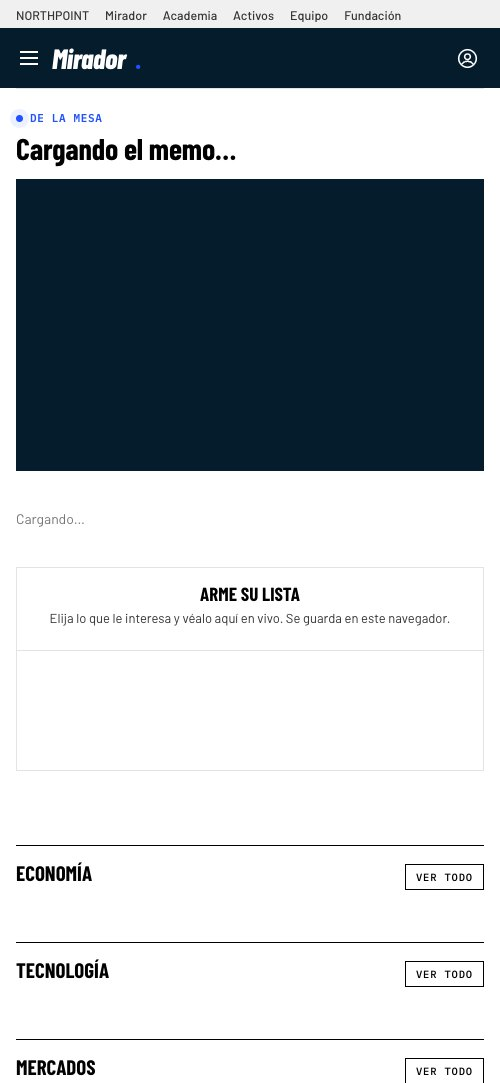
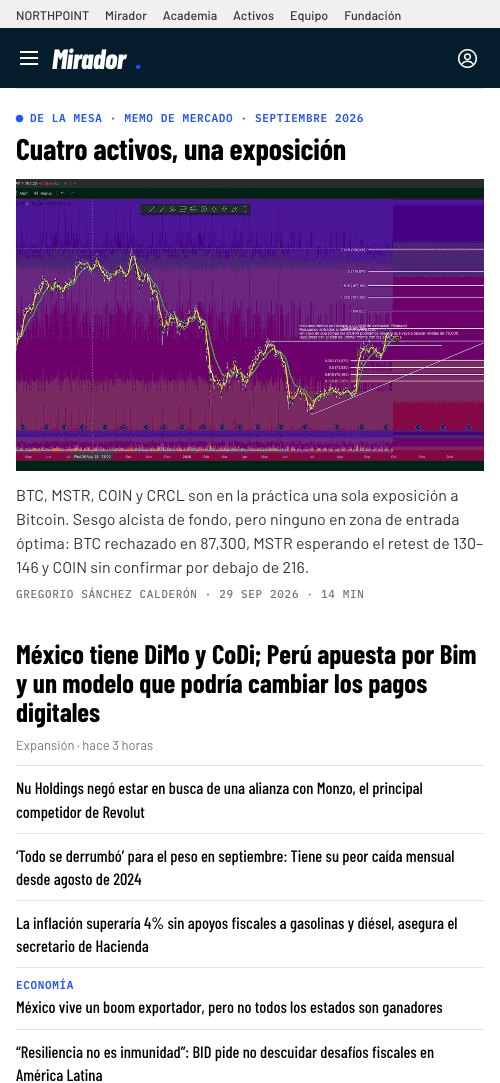
Hero: diapositiva de Mirador antes de la Fundación, con capturas reales en Mac e iPhone

diff --git a/index.html b/index.html
@@ -290,7 +290,7 @@ footer .mark{color:#fff;display:block;margin-bottom:24px}
 footer p{max-width:900px;margin-bottom:12px}
 footer b{color:#fff;font-weight:500}
 </style>
-<link rel="stylesheet" href="anim.css?v=1790812126">
+<link rel="stylesheet" href="anim.css?v=1790817285">
 <script>document.documentElement.classList.add("js-anim");setTimeout(function(){document.documentElement.classList.add("anim-ready")},3500)</script>
 </head>
 <body>
@@ -327,7 +327,17 @@ footer b{color:#fff;font-weight:500}
       <p class="lead">Para grandes capitales y empresas, un trato directo con la dirección de la mesa: estrategia a la medida de su objetivo, reportes personales y reuniones en nuestra oficina. Su dinero, siempre a su nombre.</p>
       <a class="btn" id="privBtn" href="#contacto">Agendar una conversación</a>
     </div></div></div>
-    <div class="hs hs-fund" data-i="3" data-href="fundacion.html"><div class="hs-bg" style="background-image:url(img/fundacion-abierta.jpg);background-position:right 85%;inset:-1.5%"></div><div class="wrap"><div class="box">
+    <div class="hs hs-cien hs-mir" data-i="3" data-href="overview.html"><div class="hs-bg mir-bg"></div>
+      <div class="devs" aria-hidden="true">
+        <div class="mac"><div class="mac-scr"><img src="img/mirador-desk.jpg" alt=""></div><div class="mac-base"></div></div>
+        <div class="iph"><i class="ib ib1"></i><i class="ib ib2"></i><i class="ib ib3"></i><i class="ib ib4"></i><div class="iph-bz"><div class="iph-in"><img src="img/mirador-cel.jpg" alt=""><span class="iph-isl"></span></div></div></div>
+      </div><div class="wrap"><div class="box">
+      <div class="hs-k"><span>Mirador NORTHPOINT</span><span class="hs-pill">Gratis</span></div>
+      <h2 class="serif">Todo el mercado, en un solo lugar.</h2>
+      <p class="lead">Mercados en vivo, las noticias que importan, la agenda económica de la semana y los memos de nuestra mesa. Arme su lista con lo que le interesa y véala moverse en tiempo real.</p>
+      <div style="display:flex;gap:12px;flex-wrap:wrap"><a class="btn" href="overview.html">Abrir el Mirador</a><a class="btn line inv" href="overview.html#memos">Leer los memos</a></div>
+    </div></div></div>
+    <div class="hs hs-fund" data-i="4" data-href="fundacion.html"><div class="hs-bg" style="background-image:url(img/fundacion-abierta.jpg);background-position:right 85%;inset:-1.5%"></div><div class="wrap"><div class="box">
       <div class="hs-k"><span>Fundación NORTHPOINT</span><span class="hs-pill">En formación</span></div>
       <h2 class="serif">Ningún niño debería enfrentar la leucemia sin su familia al lado.</h2>
       <p class="lead">Una parte de cada resultado de la mesa acompaña a familias de niños con leucemia durante su tratamiento.</p>
@@ -338,7 +348,8 @@ footer b{color:#fff;font-weight:500}
     <button data-i="0" class="on"><span>Ahorro</span><i><em></em></i></button>
     <button data-i="1"><span>Desde $100</span><i><em></em></i></button>
     <button data-i="2"><span>Privado</span><i><em></em></i></button>
-    <button data-i="3"><span>Fundación</span><i><em></em></i></button>
+    <button data-i="3"><span>Mirador</span><i><em></em></i></button>
+    <button data-i="4"><span>Fundación</span><i><em></em></i></button>
   </div>
   <div class="hs-arrows"><button type="button" data-d="-1" aria-label="Anterior">←</button><button type="button" data-d="1" aria-label="Siguiente">→</button></div>
   <div class="hs-cue">Siga bajando<i></i></div>
@@ -383,7 +394,7 @@ footer b{color:#fff;font-weight:500}
     </ul>
   </div>
   <div>
-    <div class="iphone"><div class="iph-screen"><iframe src="app.html?muestra=1&v=1790812126" title="Demo de la app NORTHPOINT" loading="lazy"></iframe><div class="iph-island"></div></div></div>
+    <div class="iphone"><div class="iph-screen"><iframe src="app.html?muestra=1&v=1790817285" title="Demo de la app NORTHPOINT" loading="lazy"></iframe><div class="iph-island"></div></div></div>
     <span class="demo">Pruébela aquí: es la app real en modo demostración, sin dinero real. <a class="link" href="app.html" style="font-size:13px">Abrir en pantalla completa</a></span>
   </div>
 </div></section>
@@ -742,7 +753,7 @@ $("#form").addEventListener("submit", e => {
 <script src="https://cdnjs.cloudflare.com/ajax/libs/gsap/3.12.5/gsap.min.js"></script>
 <script src="https://cdnjs.cloudflare.com/ajax/libs/gsap/3.12.5/ScrollTrigger.min.js"></script>
 <script src="https://cdn.jsdelivr.net/npm/lenis@1.1.13/dist/lenis.min.js"></script>
-<script src="anim.js?v=1790812126"></script>
-<script src="menu.js?v=1790812126"></script>
+<script src="anim.js?v=1790817285"></script>
+<script src="menu.js?v=1790817285"></script>
 </body>
 </html>

diff --git a/academia.html b/academia.html
@@ -12,8 +12,8 @@
 <link rel="preconnect" href="https://fonts.googleapis.com">
 <link rel="preconnect" href="https://fonts.gstatic.com" crossorigin>
 <link href="https://fonts.googleapis.com/css2?family=Source+Serif+4:opsz,wght@8..60,300;8..60,400&family=Public+Sans:wght@300;400;500;600;700&display=swap" rel="stylesheet">
-<link rel="stylesheet" href="base.css?v=1790812126">
-<link rel="stylesheet" href="anim.css?v=1790812126">
+<link rel="stylesheet" href="base.css?v=1790817285">
+<link rel="stylesheet" href="anim.css?v=1790817285">
 <script>document.documentElement.classList.add("js-anim");setTimeout(function(){document.documentElement.classList.add("anim-ready")},3500)</script>
 <!--
   ACADEMIA · 30-sep-2026 · estructura de marketplace de cursos (tipo Udemy): buscador, categorías, pestañas por tema,
@@ -514,8 +514,8 @@ if(filtro!=="todos") setTimeout(()=>document.getElementById("cursos").scrollInto
 <script src="https://cdnjs.cloudflare.com/ajax/libs/gsap/3.12.5/gsap.min.js"></script>
 <script src="https://cdnjs.cloudflare.com/ajax/libs/gsap/3.12.5/ScrollTrigger.min.js"></script>
 <script src="https://cdn.jsdelivr.net/npm/lenis@1.1.13/dist/lenis.min.js"></script>
-<script src="anim.js?v=1790812126"></script>
-<script src="pagina.js?v=1790812126"></script>
-<script src="menu.js?v=1790812126"></script>
+<script src="anim.js?v=1790817285"></script>
+<script src="pagina.js?v=1790817285"></script>
+<script src="menu.js?v=1790817285"></script>
 </body>
 </html>

diff --git a/equipo.html b/equipo.html
@@ -12,8 +12,8 @@
 <link rel="preconnect" href="https://fonts.googleapis.com">
 <link rel="preconnect" href="https://fonts.gstatic.com" crossorigin>
 <link href="https://fonts.googleapis.com/css2?family=Source+Serif+4:opsz,wght@8..60,300;8..60,400&family=Public+Sans:wght@300;400;500;600&display=swap" rel="stylesheet">
-<link rel="stylesheet" href="base.css?v=1790812126">
-<link rel="stylesheet" href="anim.css?v=1790812126">
+<link rel="stylesheet" href="base.css?v=1790817285">
+<link rel="stylesheet" href="anim.css?v=1790817285">
 <script>document.documentElement.classList.add("js-anim");setTimeout(function(){document.documentElement.classList.add("anim-ready")},3500)</script>
 <style>
 .thead{background:radial-gradient(90% 80% at 75% 30%,#12324A 0%,#061A29 55%,#030D16 100%);color:#fff;padding:170px 0 90px}
@@ -99,8 +99,8 @@
 <script src="https://cdnjs.cloudflare.com/ajax/libs/gsap/3.12.5/gsap.min.js"></script>
 <script src="https://cdnjs.cloudflare.com/ajax/libs/gsap/3.12.5/ScrollTrigger.min.js"></script>
 <script src="https://cdn.jsdelivr.net/npm/lenis@1.1.13/dist/lenis.min.js"></script>
-<script src="anim.js?v=1790812126"></script>
-<script src="menu.js?v=1790812126"></script>
+<script src="anim.js?v=1790817285"></script>
+<script src="menu.js?v=1790817285"></script>
 <script>
 if(window.gsap && !matchMedia("(prefers-reduced-motion: reduce)").matches){
   gsap.from(".thead .wrap > *", { y: 40, opacity: 0, stagger: .12, duration: 1, ease: "power3.out" });

diff --git a/fundacion.html b/fundacion.html
@@ -12,8 +12,8 @@
 <link rel="preconnect" href="https://fonts.googleapis.com">
 <link rel="preconnect" href="https://fonts.gstatic.com" crossorigin>
 <link href="https://fonts.googleapis.com/css2?family=Source+Serif+4:opsz,wght@8..60,300;8..60,400&family=Public+Sans:wght@300;400;500;600&display=swap" rel="stylesheet">
-<link rel="stylesheet" href="base.css?v=1790812126">
-<link rel="stylesheet" href="anim.css?v=1790812126">
+<link rel="stylesheet" href="base.css?v=1790817285">
+<link rel="stylesheet" href="anim.css?v=1790817285">
 <script>document.documentElement.classList.add("js-anim");setTimeout(function(){document.documentElement.classList.add("anim-ready")},3500)</script>
 <style>
 /* página de división: portada propia */
@@ -137,8 +137,8 @@ document.querySelectorAll("[data-ayuda]").forEach(a => { if(CONFIG.whatsapp){ a.
 <script src="https://cdnjs.cloudflare.com/ajax/libs/gsap/3.12.5/gsap.min.js"></script>
 <script src="https://cdnjs.cloudflare.com/ajax/libs/gsap/3.12.5/ScrollTrigger.min.js"></script>
 <script src="https://cdn.jsdelivr.net/npm/lenis@1.1.13/dist/lenis.min.js"></script>
-<script src="anim.js?v=1790812126"></script>
-<script src="menu.js?v=1790812126"></script>
-<script src="pagina.js?v=1790812126"></script>
+<script src="anim.js?v=1790817285"></script>
+<script src="menu.js?v=1790817285"></script>
+<script src="pagina.js?v=1790817285"></script>
 </body>
 </html>

diff --git a/activos.html b/activos.html
@@ -12,8 +12,8 @@
 <link rel="preconnect" href="https://fonts.googleapis.com">
 <link rel="preconnect" href="https://fonts.gstatic.com" crossorigin>
 <link href="https://fonts.googleapis.com/css2?family=Source+Serif+4:opsz,wght@8..60,300;8..60,400&family=Public+Sans:wght@300;400;500;600&display=swap" rel="stylesheet">
-<link rel="stylesheet" href="base.css?v=1790812126">
-<link rel="stylesheet" href="anim.css?v=1790812126">
+<link rel="stylesheet" href="base.css?v=1790817285">
+<link rel="stylesheet" href="anim.css?v=1790817285">
 <script>document.documentElement.classList.add("js-anim");setTimeout(function(){document.documentElement.classList.add("anim-ready")},3500)</script>
 <style>
 /* página de división: portada propia */
@@ -345,8 +345,8 @@ render();
 <script src="https://cdnjs.cloudflare.com/ajax/libs/gsap/3.12.5/gsap.min.js"></script>
 <script src="https://cdnjs.cloudflare.com/ajax/libs/gsap/3.12.5/ScrollTrigger.min.js"></script>
 <script src="https://cdn.jsdelivr.net/npm/lenis@1.1.13/dist/lenis.min.js"></script>
-<script src="anim.js?v=1790812126"></script>
-<script src="menu.js?v=1790812126"></script>
-<script src="pagina.js?v=1790812126"></script>
+<script src="anim.js?v=1790817285"></script>
+<script src="menu.js?v=1790817285"></script>
+<script src="pagina.js?v=1790817285"></script>
 </body>
 </html>

diff --git a/memo.html b/memo.html
@@ -9,8 +9,8 @@
 <link rel="preconnect" href="https://fonts.googleapis.com">
 <link rel="preconnect" href="https://fonts.gstatic.com" crossorigin>
 <link href="https://fonts.googleapis.com/css2?family=Playfair+Display:ital,wght@0,400;0,500;0,600;1,400&family=Source+Serif+4:ital,opsz,wght@0,8..60,300;0,8..60,400;1,8..60,300&family=Public+Sans:wght@300;400;500;600&display=swap" rel="stylesheet">
-<link rel="stylesheet" href="base.css?v=1790812126">
-<link rel="stylesheet" href="anim.css?v=1790812126">
+<link rel="stylesheet" href="base.css?v=1790817285">
+<link rel="stylesheet" href="anim.css?v=1790817285">
 <!--
   MEMO · 30-sep-2026 · lector propio de los memos de mercado con el diseño del Mirador.
   memo.html?m=<archivo sin .html>. Toma el contenido del memo publicado en northpointcapital.io/memos/ (en vivo)
@@ -176,6 +176,6 @@ function mas(){ const o = LISTA.filter(x => x.slug !== slug);
   catch(_){ const s = LISTA.find(x => x.slug === slug); if(s && s.main) pinta(s.main, url); else $("#art").innerHTML = `<div class="estado">No pudimos cargar el memo en este momento. Intente de nuevo en unos minutos.</div>`; }
 })();
 </script>
-<script src="menu.js?v=1790812126"></script>
+<script src="menu.js?v=1790817285"></script>
 </body>
 </html>

diff --git a/privacidad.html b/privacidad.html
@@ -12,8 +12,8 @@
 <link rel="preconnect" href="https://fonts.googleapis.com">
 <link rel="preconnect" href="https://fonts.gstatic.com" crossorigin>
 <link href="https://fonts.googleapis.com/css2?family=Source+Serif+4:opsz,wght@8..60,300;8..60,400&family=Public+Sans:wght@300;400;500;600&display=swap" rel="stylesheet">
-<link rel="stylesheet" href="base.css?v=1790812126">
-<link rel="stylesheet" href="anim.css?v=1790812126">
+<link rel="stylesheet" href="base.css?v=1790817285">
+<link rel="stylesheet" href="anim.css?v=1790817285">
 <script>document.documentElement.classList.add("js-anim");setTimeout(function(){document.documentElement.classList.add("anim-ready")},3500)</script>
 <style>
 .lhead{background:var(--navy);color:#fff;padding:150px 0 60px}
@@ -108,6 +108,6 @@
   <span class="mark">NORTHPOINT<small>Legal</small></span>
   <p><a href="index.html" style="color:#fff">← Volver a NORTHPOINT</a></p>
 </div></footer>
-<script src="menu.js?v=1790812126"></script>
+<script src="menu.js?v=1790817285"></script>
 </body>
 </html>

diff --git a/anim.css b/anim.css
@@ -200,3 +200,10 @@ html.menu-on .menu-in a:nth-child(2){transition-delay:.04s}html.menu-on .menu-in
 .hs-index button:hover{background:rgba(255,255,255,.7)!important}
 .hs-arrows,.hs-cue{display:none!important}
 @media(max-width:900px){.hs-index{bottom:22px!important}.hs .wrap{padding-bottom:70px}}
+
+/* Mirador en el hero: marino liso con brillo azul, sin foto */
+.mir-bg{background:radial-gradient(60% 70% at 72% 45%,rgba(34,81,255,.35),rgba(34,81,255,0) 70%),linear-gradient(160deg,#0B2A40 0%,#051C2C 60%)!important}
+.hs-mir:after{background:linear-gradient(90deg,rgba(5,28,44,.85) 0%,rgba(5,28,44,.35) 45%,rgba(5,28,44,0) 70%)!important}
+@media(max-width:900px){.hs-mir:after{background:linear-gradient(0deg,rgba(5,28,44,.97) 0%,rgba(5,28,44,.85) 42%,rgba(5,28,44,.2) 70%,rgba(5,28,44,.3) 100%)!important}}
+.hs-mir .box{max-width:430px}
+@media(max-width:900px){.hs-mir .box{max-width:none}}
